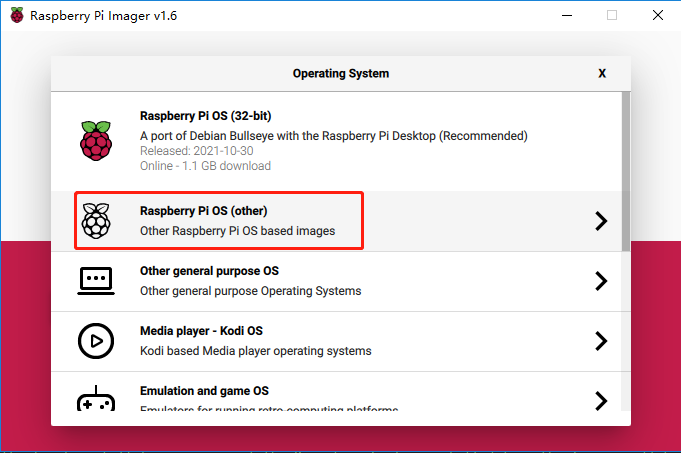
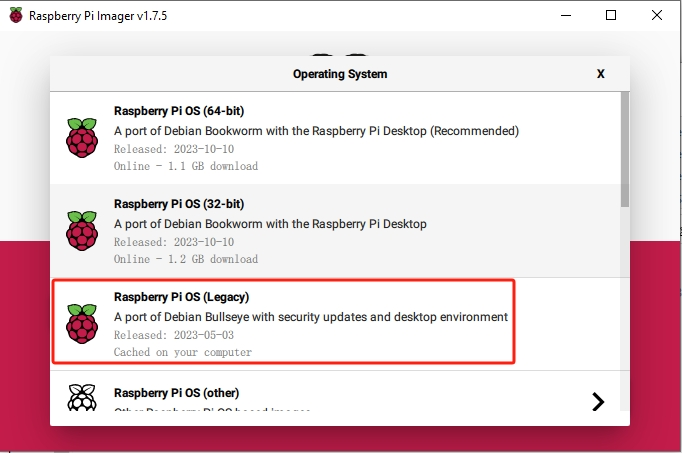
update the os version

diff --git a/docs/source/install_the_rpi_os.rst b/docs/source/install_the_rpi_os.rst
@@ -1,115 +1,76 @@
+.. _install_rpi_os:
+
 INSTALL THE RASPBERRY PI OS
-======================================
+=============================
 
 An operating system needs to be installed onto the Micro SD card before inserting it into the Raspberry Pi.
 
-.. note::
+#. Browse to the Raspberry Pi Imager site and download the version that matches the computer or laptop's operating system (www.raspberrypi.org/software). When the download is complete, launch the installer program and follow the prompts to install the Raspberry Pi Imager.
 
-  Skip this chapter if the Raspberry Pi already has an operating system installed.
+    .. image:: img/3d1.png
+      :align: center
 
+#. If the Windows operating system prevents the application from launching, click on **More info** and then click on **Run anyway** to install the Raspberry Pi Imager.
 
-Raspberry Pi Imager is a quick and easy way to install the Raspberry Pi operating system to a Micro SD card from a computer or laptop.
+    .. image:: img/3d2.png
+      :align: center
 
-Browse to the Raspberry Pi Imager site and download the version that matches the computer or laptop\'s  operating system (www.raspberrypi.org/software). When the download is complete, launch the installer program and follow the prompts to install the Raspberry Pi Imager.
-
-.. image:: img/3d1.png
-  :width: 400
-  :align: center
-
-If the Windows operating system prevents the application from launching, click on **More info** and then click on **Run anyway** to install the Raspberry Pi Imager.
-
-.. image:: img/3d2.png
-  :width: 550
-  :align: center
-
-Insert the Micro SD card into the computer or laptop's SD card slot. If the computer or laptop only has a full-size port for SD cards, use a Micro SD card adapter.
-
-.. In the Raspberry Pi Imager, select the Operating System to install, and then select the SD card to install the image on.
-
-.. .. image:: img/3d3.png
-..   :width: 550
-..   :align: center
-
-.. .. note::
-..     * The computer or laptop will need to be connected to the internet during the first time the Operating System is installed.
-
-..     * After the first installation, a copy of the Operating System installed from the Imager will be stored on the computer or laptop, and will be available for future use, even while offline (Location of lastdownload.cache will be here: ``C:/Users/<username>/AppData/Local/Raspberry Pi/Imager/cache``). The next time the Imager software launches, it will display “Released: <date>, Cached on your computer”.
-
-.. mark
-
-.. warning::
-
-    Upgrading the Raspberry Pi OS to **Debian Bullseye** will cause some features to not work, so it is recommended to continue using the **Debian Buster** version.
-
-In the Raspberry Pi Imager, click **CHOOSE OS** -> **Raspberry Pi OS(other)**.
-
-.. image:: img/3d33.png
-    :align: center
-
-Scroll down to the end of the newly opened page and you will see **Raspberry Pi OS(Legacy)** and **Raspberry Pi OS Lite(Legacy)**, these are security updates for Debian Buster, the difference between them is with or without the desktop.
-It is recommended to install **Raspberry Pi OS(Legacy)**, the system with the desktop.
-
-.. image:: img/3d34.png
-    :align: center
+#. Insert the Micro SD card into the computer or laptop's SD card slot. If the computer or laptop only has a full-size port for SD cards, use a Micro SD card adapter.
 
 
+#. In the Raspberry Pi Imager, click **CHOOSE OS** -> **Raspberry Pi OS(Legacy)**.
 
-Select the SD card you are using.
+    .. warning::
 
-.. image:: img/3d4.png
-  :width: 550
-  :align: center
+      * Please do not install the **Bookworm** version to avoid the **double-click** function and the **virtual keyboard** not working.
+      * You need to install the **Raspberry Pi OS (Legacy)** version - **Debian Bullseye**.
+      * Additionally, for a perfect touch experience, it is recommended to install the **Ubuntu** system.
 
-.. Press ``Ctrl+Shift+X`` to open the Advanced options page to enable SSH and configure wifi, these 2 items must be set, the others depend on your choice. You can choose to always use this image customization options.
-
-.. .. image:: img/3d5.png
-..   :width: 550
-..   :align: center
-
-.. Scroll down to configure the WiFi settings, and then click **SAVE**.
-
-.. .. note::
-
-..   The entry for the **WiFi country** should be set to a designated two-letter ISO/IEC alpha2 code designated to the country. Please reference the following link: `https://en.wikipedia.org/wiki/ISO_3166-1_alpha-2#Officially_assigned_code_elements <https://en.wikipedia.org/wiki/ISO_3166-1_alpha-2#Officially_assigned_code_elements>`_.
-
-.. .. image:: img/3d6.png
-..   :width: 550
-..   :align: center
-
-Click the **WRITE** button.
-
-.. image:: img/3d7.png
-  :width: 550
-  :align: center
-
-The Imager will overwrite any files already on the SD card. If the SD card has any files, back up these files before clicking Yes.
-
-.. image:: img/3d8.png
-  :width: 550
-  :align: center
-
-After the Imager completes installing the Operating System on the SD card, click Continue to complete the installation.
-
-.. image:: img/3d9.png
-  :width: 550
-  :align: center
-
-Now insert the Micro SD card with the system installed into the Raspberry Pi.
+    .. image:: img/3d33.png
+        :align: center
 
 
+#. Select the SD card you are using.
+
+    .. image:: img/3d4.png
+      :width: 550
+      :align: center
+
+#. To open the advanced options page, click the **setting** button (appears after selecting operating system) or press **Ctrl+Shift+X**. Now, set hostname, enable ssh and set the username and password.
+
+    .. warning::
+
+        Make sure to note down the ``hostname``, ``username``, and ``password``; they're crucial for later remote access to the Raspberry Pi.
+
+    .. image:: img/image15.png
+        :align: center
+
+#. Then scroll down to complete the wifi configuration and click **SAVE**.
+
+    .. note::
+
+        **wifi country** should be set the two-letter `ISO/IEC alpha2 code <https://en.wikipedia.org/wiki/ISO_3166-1_alpha-2#Officially_assigned_code_elements>`_ for the country in which you are using your Raspberry Pi, please refer to the following link: https://en.wikipedia.org/wiki/ISO_3166-1_alpha-2#Officially_assigned_code_elements
+
+    .. image:: img/image16.png
+        :align: center
 
 
+#. Click the **WRITE** button.
 
+    .. image:: img/3d7.png
+      :width: 550
+      :align: center
 
+#. The Imager will overwrite any files already on the SD card. If the SD card has any files, back up these files before clicking Yes.
 
+    .. image:: img/3d8.png
+      :width: 550
+      :align: center
 
+#. After the Imager completes installing the Operating System on the SD card, click Continue to complete the installation.
 
+    .. image:: img/3d9.png
+      :width: 550
+      :align: center
 
-
-
-
-
-
-
-
-
+#. Now insert the Micro SD card with the system installed into the Raspberry Pi.

diff --git a/docs/source/iot/blynk/blynk_start.rst b/docs/source/iot/blynk/blynk_start.rst
@@ -9,8 +9,6 @@ In the event that you trigger widgets on Blynk, your Raspberry Pi will print out
 
 Follow the steps below, and note that you must do them in order and not skip any chapters.
 
-.. note:: Before starting this project, you have to :ref:`bk_config`. 
-
 
 1. Configuring the Blynk
 --------------------------
